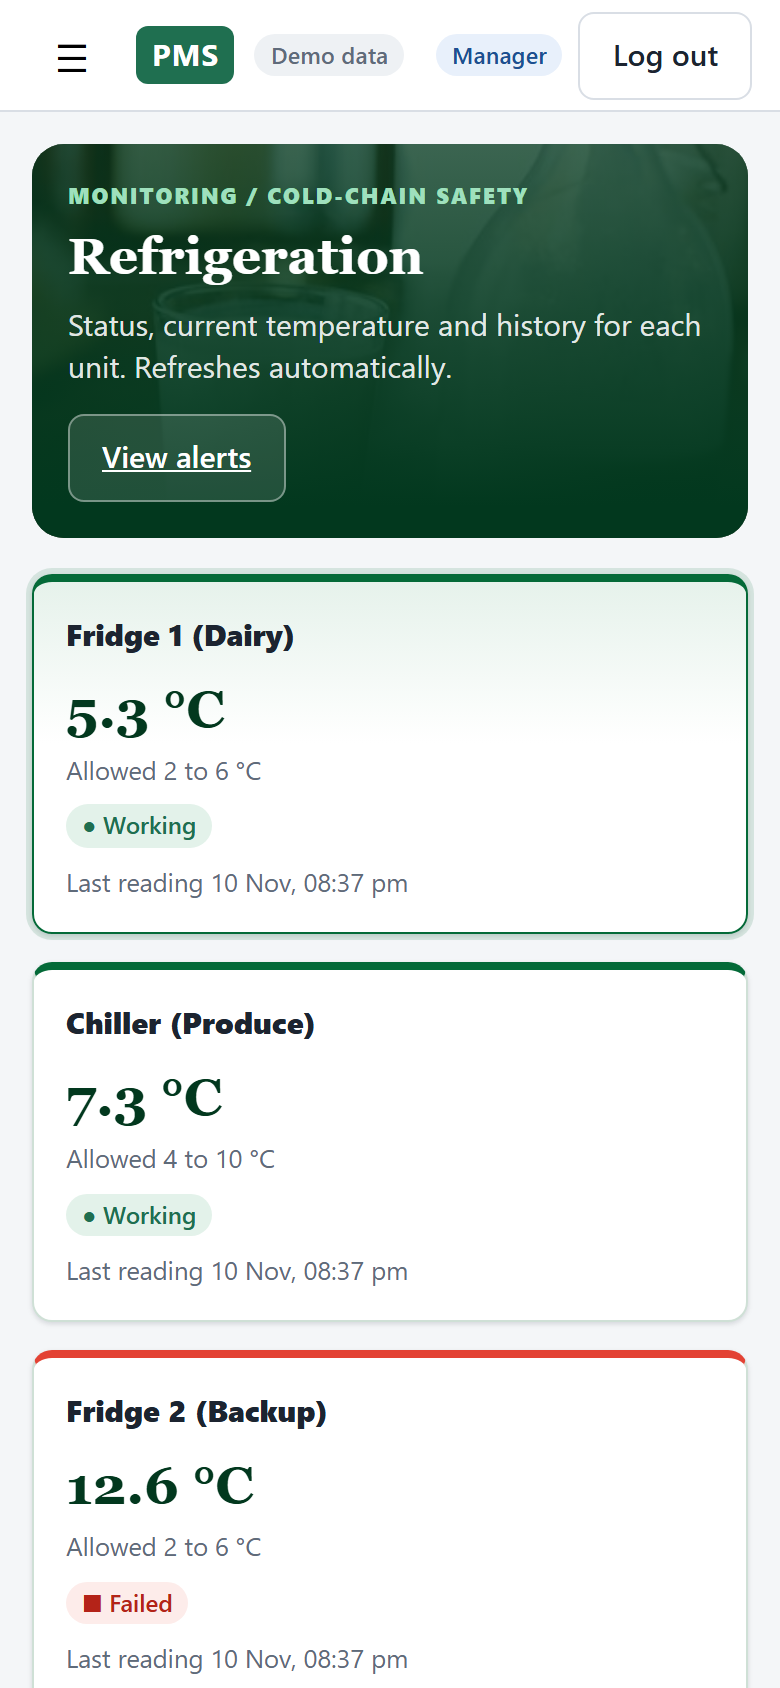
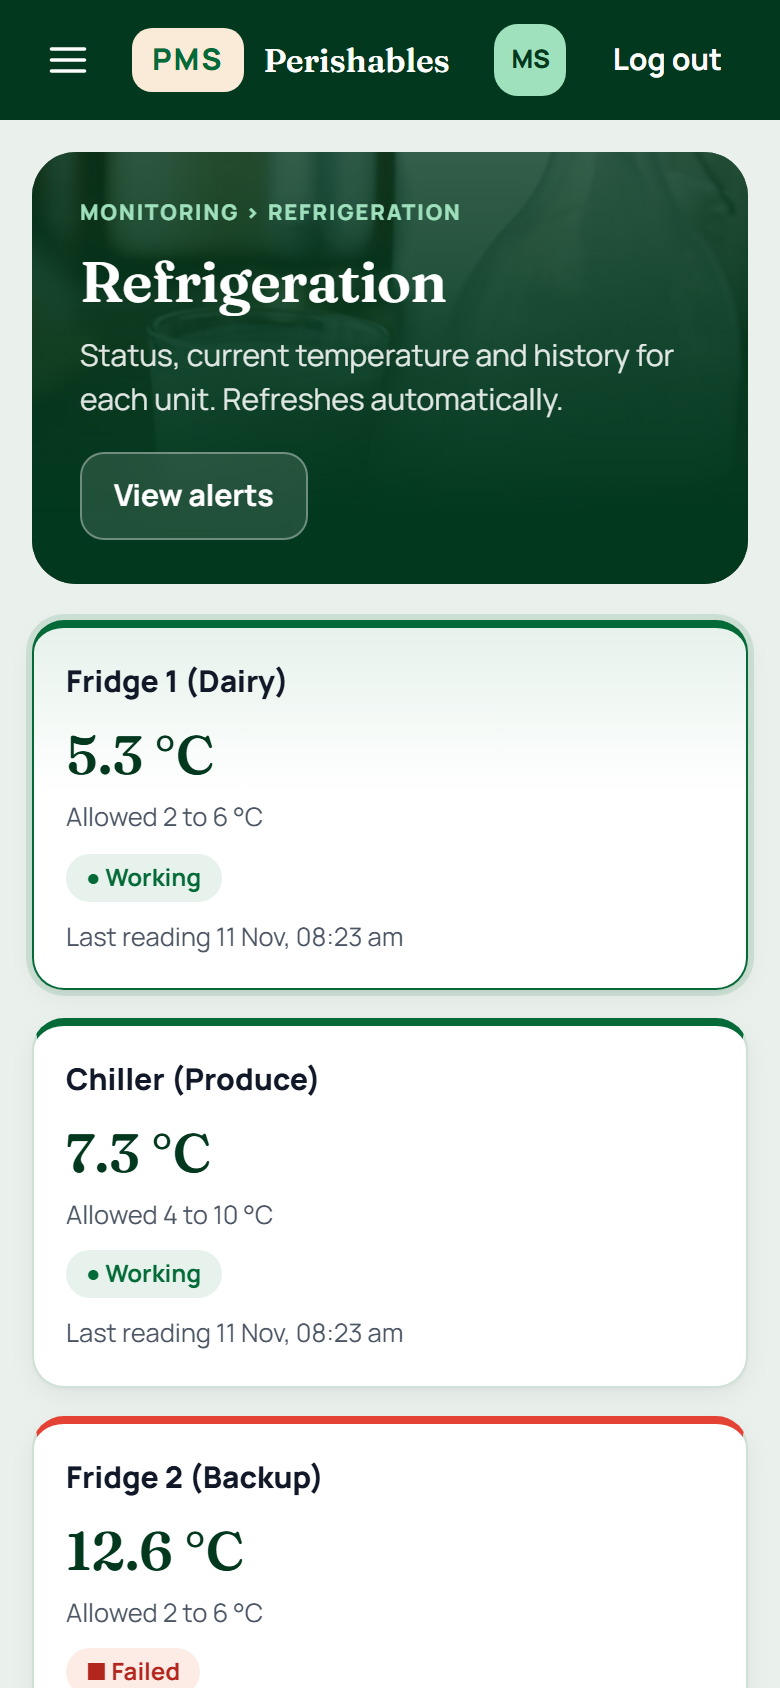
Use shared PageHeader on Alerts and Refrigeration screens and update screenshots

Changed region(s): [[0.0, 0.0, 1.0, 1.0], [0.4, 0.955, 0.4308, 0.9858]]

diff --git a/frontend/src/styles.css b/frontend/src/styles.css
@@ -753,70 +753,3 @@ a.btn { text-decoration: none; }
   .alerts-card, .refrigeration-unit { transition: none; }
   .alerts-card:hover, .refrigeration-unit:hover { transform: none; }
 }
-
-
-/* Self-contained Forest hero for the two monitoring screens. */
-.monitor-page-hero {
-  position: relative;
-  display: flex;
-  min-height: 154px;
-  margin-bottom: 18px;
-  overflow: hidden;
-  isolation: isolate;
-  border-radius: 22px;
-  color: #fff;
-  background: #02381e;
-}
-.monitor-page-hero > img {
-  position: absolute;
-  z-index: -2;
-  inset: 0 0 0 auto;
-  width: 62%;
-  height: 100%;
-  object-fit: cover;
-  opacity: .88;
-}
-.monitor-page-hero__shade {
-  position: absolute;
-  z-index: -1;
-  inset: 0;
-  background: linear-gradient(90deg, #02381e 28%, rgba(2,56,30,.92) 48%, rgba(2,56,30,.3) 100%);
-}
-.monitor-page-hero__body {
-  display: flex;
-  flex: 1;
-  align-items: flex-end;
-  justify-content: space-between;
-  gap: 16px;
-  padding: 22px 26px;
-}
-.monitor-page-hero__crumb {
-  display: block;
-  margin-bottom: 5px;
-  color: #9fe0bd;
-  font-size: .72rem;
-  font-weight: 800;
-  letter-spacing: .1em;
-  text-transform: uppercase;
-}
-.monitor-page-hero h1 {
-  margin: 0 0 4px;
-  color: #fff;
-  font-family: var(--font-display, Georgia, serif);
-  font-size: clamp(1.7rem, 4vw, 2.2rem);
-}
-.monitor-page-hero p { max-width: 42rem; margin: 0; color: rgba(255,255,255,.9); }
-.monitor-page-hero__actions { display: flex; flex-wrap: wrap; gap: 8px; }
-.monitor-page-hero__actions .btn {
-  color: #fff;
-  border-color: rgba(255,255,255,.4);
-  background: rgba(255,255,255,.12);
-  box-shadow: none;
-}
-@media (max-width: 600px) {
-  .monitor-page-hero { min-height: 166px; border-radius: 16px; }
-  .monitor-page-hero > img { width: 100%; opacity: .48; }
-  .monitor-page-hero__shade { background: linear-gradient(180deg, rgba(2,56,30,.52), #02381e 92%); }
-  .monitor-page-hero__body { align-items: flex-start; flex-direction: column; padding: 18px; gap: 12px; }
-  .monitor-page-hero__actions { width: 100%; }
-}

diff --git a/frontend/src/pages/RefrigerationPage.jsx b/frontend/src/pages/RefrigerationPage.jsx
@@ -5,7 +5,7 @@ import { api } from "../api/endpoints.js";
 import { useAuth } from "../auth/AuthContext.jsx";
 import { can } from "../config/roles.js";
 import { USE_MOCK } from "../api/client.js";
-import { Banner, Loading } from "../components/ui.jsx";
+import { Banner, Loading, PageHeader } from "../components/ui.jsx";
 import TempChart from "../components/TempChart.jsx";
 import { formatDateTime } from "../lib/dates.js";
 import { ALERTS_CHANGED } from "../components/Layout.jsx";
@@ -113,20 +113,11 @@ export default function RefrigerationPage() {
 
   return (
     <section>
-      <header className="monitor-page-hero monitor-page-hero--refrigeration">
-        <img src="/img/categories/dairy.jpg" alt="" aria-hidden="true" />
-        <span className="monitor-page-hero__shade" aria-hidden="true" />
-        <div className="monitor-page-hero__body">
-          <div>
-            <span className="monitor-page-hero__crumb">Monitoring / Cold-chain safety</span>
-            <h1>Refrigeration</h1>
-            <p>Status, current temperature and history for each unit. Refreshes automatically.</p>
-          </div>
-          <div className="monitor-page-hero__actions">
-            <Link className="btn" to="/alerts">View alerts</Link>
-          </div>
-        </div>
-      </header>
+      <PageHeader
+        title="Refrigeration"
+        subtitle="Status, current temperature and history for each unit. Refreshes automatically."
+        actions={<Link className="btn" to="/alerts">View alerts</Link>}
+      />
       <Banner kind="success" onClose={() => setMessage("")}>{message}</Banner>
       <Banner kind="error" onClose={() => setError("")}>{error}</Banner>
 

diff --git a/frontend/src/pages/AlertsPage.jsx b/frontend/src/pages/AlertsPage.jsx
@@ -3,7 +3,7 @@ import { asBackground } from "../api/background.js";
 import { api } from "../api/endpoints.js";
 import { useAuth } from "../auth/AuthContext.jsx";
 import { can } from "../config/roles.js";
-import { Banner, EmptyState, Loading, SeverityTag } from "../components/ui.jsx";
+import { Banner, EmptyState, Loading, PageHeader, SeverityTag } from "../components/ui.jsx";
 import { formatDateTime } from "../lib/dates.js";
 import { ALERTS_CHANGED } from "../components/Layout.jsx";
 
@@ -73,15 +73,10 @@ export default function AlertsPage() {
 
   return (
     <section>
-      <header className="monitor-page-hero monitor-page-hero--alerts">
-        <img src="/img/login.jpg" alt="" aria-hidden="true" />
-        <span className="monitor-page-hero__shade" aria-hidden="true" />
-        <div className="monitor-page-hero__body">
-          <span className="monitor-page-hero__crumb">Monitoring / Safety centre</span>
-          <h1>Alerts</h1>
-          <p>Low stock, expiry, fridge, door, temperature and power alerts. Refreshes automatically.</p>
-        </div>
-      </header>
+      <PageHeader
+        title="Alerts"
+        subtitle="Low stock, expiry, fridge, door, temperature and power alerts. Refreshes automatically."
+      />
       <Banner kind="success" onClose={() => setMessage("")}>{message}</Banner>
       <Banner kind="error" onClose={() => setError("")}>{error}</Banner>
       {!canAck && <Banner kind="info">Only a Manager or Admin can acknowledge alerts.</Banner>}
